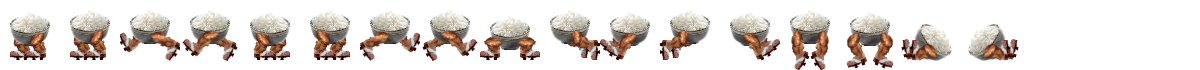
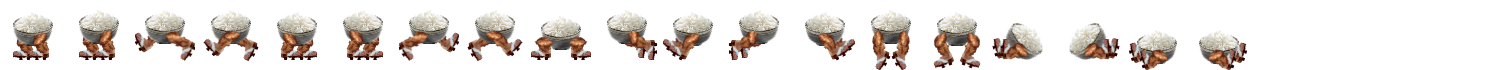
Hotfix - added sliding animation

diff --git a/playerMechanics.js b/playerMechanics.js
@@ -276,6 +276,7 @@ function playerMechanics() {
                 else if (player.velocity.y === 0) player.velocity.x = 0
             }
             else if (playerSlideBottomRightCollisionFromSlide(player, slide)) {
+                // On slide
                 if (player.x + player.width > slide.x2 && player.x + player.width < slide.x1) {
                     player.y = slide.y2 - player.height + Math.abs(slide.x2 - player.x - player.width) / (slide.x1 - slide.x2) * (slide.y1 - slide.y2) - 5
                     if (player.velocity.x > 0) {
@@ -289,7 +290,10 @@ function playerMechanics() {
                     }
                     player.velocity.y = 5.5
                     slide.color = 'rgba(189, 140, 255, 1)'
-                } else if (player.x + player.width >= slide.x1 && player.x < slide.x1 && player.velocity.y != 0 && player.y + player.height >= slide.y1 + 5) {
+                    player.sliding = true
+                }
+                // Behind slide
+                else if (player.x + player.width >= slide.x1 && player.x < slide.x1 && player.velocity.y != 0 && player.y + player.height >= slide.y1 + 5) {
                     player.velocity.y = 0.1
                     player.y = slide.y1 - player.height
                     if (player.velocity.x > -7)
@@ -333,6 +337,7 @@ function playerMechanics() {
                 else if (player.velocity.y === 0) player.velocity.x = 0
             }
             else if (playerSlideBottomLeftCollisionSlide(player, slide)) {
+                // On slide
                 if (player.x > slide.x1 && player.x < slide.x2) {
                     player.y = slide.y2 - player.height - Math.abs(slide.x2 - player.x) / (slide.x2 - slide.x1) * (slide.y2 - slide.y1) - 5
                     if (player.velocity.x < 0) {
@@ -346,7 +351,10 @@ function playerMechanics() {
                     }
                     player.velocity.y = 5.5
                     slide.color = 'rgba(189, 140, 255, 1)'
-                } else if (player.x + player.width > slide.x1 && player.x <= slide.x1 && player.velocity.y != 0 && player.y + player.height >= slide.y1 + 5) {
+                    player.sliding = true
+                }
+                // Behind slide
+                else if (player.x + player.width > slide.x1 && player.x <= slide.x1 && player.velocity.y != 0 && player.y + player.height >= slide.y1 + 5) {
                     player.velocity.y = 0.1
                     player.y = slide.y1 - player.height
                     if (player.velocity.x < 7) {

diff --git a/canvas.js b/canvas.js
@@ -93,7 +93,7 @@ class Player {
         c.beginPath()
         // c.fillStyle = this.color
         // c.fillRect(this.x, this.y, this.width, this.height)
-        c.drawImage(playerTexture, 60 * this.animation, 0, 60, 70, this.x - 10, this.y - 10, 60, 70)
+        c.drawImage(playerTexture, 66 * this.animation, 0, 66, 70, this.x - 10, this.y - 10, 66, 70)
         c.closePath()
     }
 
@@ -106,6 +106,7 @@ class Player {
         player.previousVelocity = player.velocity.x
         player.onPlatform = false
         player.inWind = false
+        player.sliding = false
         this.draw()
     }
 }

diff --git a/playerAnimations.js b/playerAnimations.js
@@ -3,8 +3,13 @@ function playerAnimations() {
     if (player.previousVelocity > 0) player.facingLeft = false
     else if (player.previousVelocity < 0) player.facingLeft = true
 
+    // Sliding
+    if (player.sliding === true) {
+        if (player.facingLeft === true) player.animation = 17
+        else if (player.facingLeft === false) player.animation = 18
+    }
     // In air
-    if (player.onPlatform === false) {
+    else if (player.onPlatform === false) {
         // Up
         if (player.velocity.y < 0) {
             // Left
